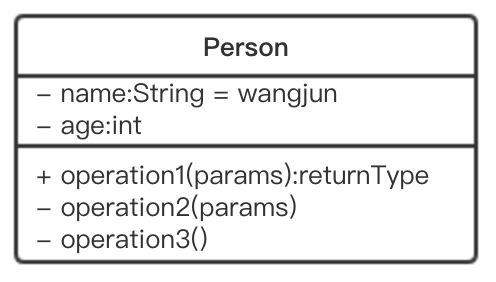
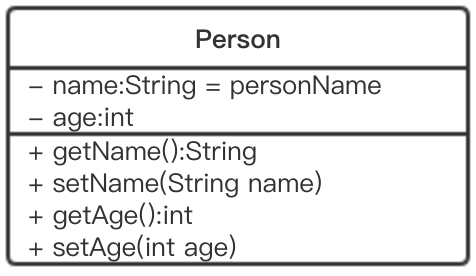
Track 3 files into repository.
- modified 技术学习/Java学习/学习UML图.md
- modified .DS_Store
- modified assets/类图1.png

Auto commit by GitBook Editor

diff --git a/技术学习/Java学习/学习UML图.md b/技术学习/Java学习/学习UML图.md
@@ -4,7 +4,7 @@
 
 UML（Unified Modeling Language）统一建模语言，是一种开放的方法，用于说明、可视化、构建和编写一个正在开发的、面向对象的、软件密集系统的制品的开放方法。
 
-### 2. UML类图
+### 2. UML类图的组成
 
 UML类图由三部分组成：类名、属性和方法。
 
@@ -17,14 +17,20 @@ eg：
 **属性：**就是类的成员变量，可见性表示为public（+）、protected（\#）、private（-）。在UML类图中可以表示属性的可见性、名称、类型和默认值，格式如下（[] 里面的表示可选，可以有可以没有）：
 
 ```
-可见性  名称:类型[=默认值]
+可见性  名称:类型 = 默认值 
 ```
 
 **方法：**可见性同属性，格式如下：
 
 ```
-可见性  名称(参数列表) [ : 返回类型]
+可见性  名称(参数列表) : 返回类型 
 ```
+
+### 3. UML类图关系
+
+UML类图之间的主要关系有6种：继承关系，实现关系，依赖关系，关联关系，聚合关系，组合关系。
+
+**继承关系：**可以用带空心三角形的直线表示。
 
 
 
